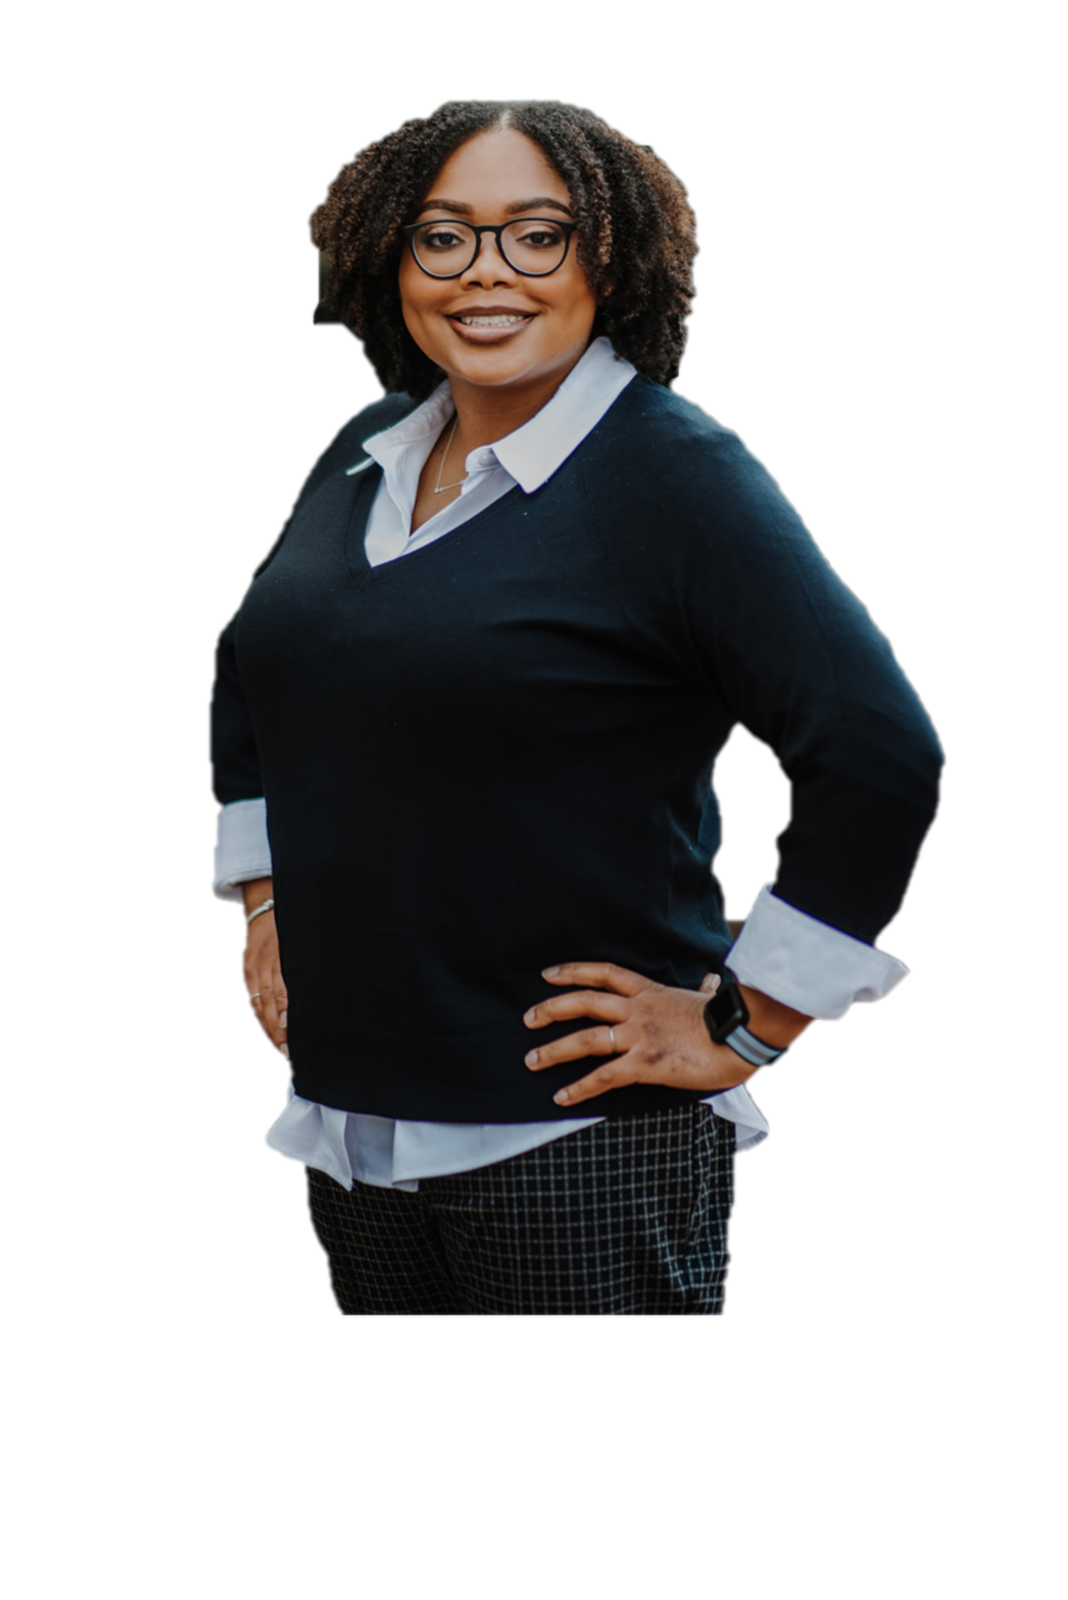
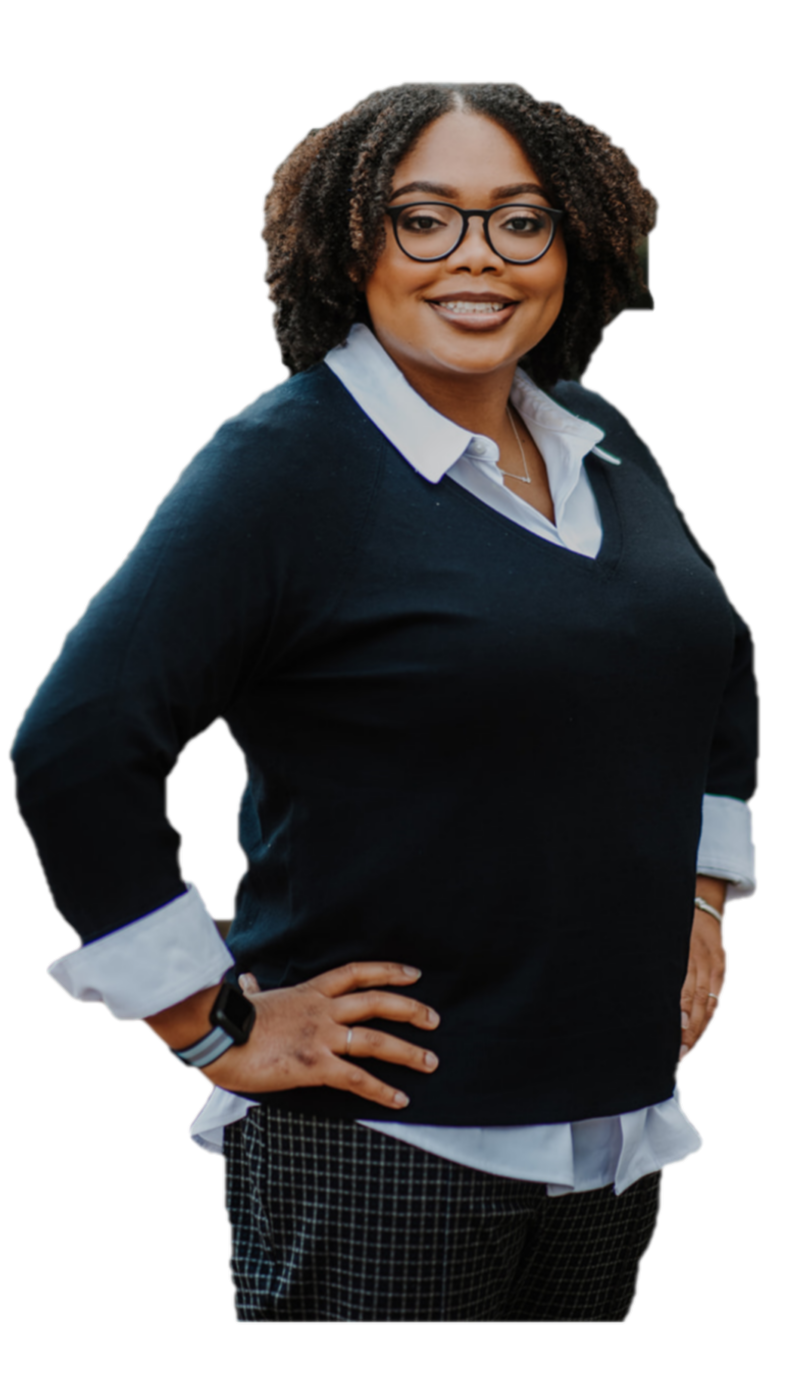
flip pic and worked on zoomed out view

diff --git a/src/components/about/about.scss b/src/components/about/about.scss
@@ -1,4 +1,4 @@
-// .imgContainer, .imgContainer * {
+// .row, .row * {
 //     border: 2px dotted red;
 // }
 
@@ -18,25 +18,19 @@ body {
 }
 
 .fa-copy {
-    top: 125px
+    top: 150px
 }
 
 .fa-mobile-screen-button {
-    top: 200px
+    top: 250px
 }
 
 .about {
     padding: 50px;
     position: relative;
-    height: 650px;
     justify-content: space-between;
     border-radius: 8px;
-    // width: 1200px;
     margin: 0   auto;
-    // background-image: url(./images/backgroundimagework.png);
-    // background-attachment: fixed;
-    // background-repeat: no-repeat;
-    // background-size: cover;
 }
 
 .about h1 {
@@ -50,14 +44,10 @@ body {
 }
 
 .row {
-    position: absolute;
-    bottom: 0;
-    left: 0;
-    // height: 530px;
-    width: 100%;
+    width: 90%;
     display: flex;
-    justify-content: center;
-
+    justify-content: space-around;
+    margin: 10px auto;
 }
 
 .row h1 {
@@ -66,46 +56,38 @@ body {
 
 .imgContainer {
     width: 600px;
-    // height: 530px;
     position: relative;
-    // position: absolute;
-    // bottom: 0;
-    // left: 0;
+    height: 700px;
 }
 
 .imgContainer h1 {
     position: absolute;
-    left: 0;
-    top: 0
+    right: 10px;
+    top: 0;
 }
 
 .paragraph {
-    position: relative;
-    height: 300px;
-    margin: 50px;
     border: 2px solid black;
     border-radius: 8px;
     padding: 10px 35px 35px 35px;
     border-radius: 0 25%;
-    width: 40%;
     color: white;
     background: linear-gradient(172deg, gray 80%, black 80%, black 81%, teal 85%, teal 86%, black 86%, black 90%, gray 90%);
-    font-size: 1.1rem;
-    bottom: 50px;
+    font-size: 1.65rem;
     box-shadow: 5px 5px 20px black;
+    margin: 5%;
+    padding: 1% 2%;
+    width: 1000px;
 }
+
 .paragraph h2 {
     text-align: center;
     font-style: italic;
 }
 
-.about p b {
-    color: black;
-    font-size: larger;
-}
-
 .me {
-    height: 700px;
+    // height: 700px;
+    height: 750px;
     position: fixed;
     z-index: 1;
 }
@@ -114,8 +96,7 @@ body {
     position: absolute;
     bottom: 25px;
     height: 50px;
-    left: 170px;
-    width: 400px;
+    width: 550px;
     background-color: black;
     z-index: 0;
     margin: 0 auto;
@@ -127,9 +108,9 @@ body {
 .bottomDiv {
     position: absolute;
     bottom: 0;
-    left: 170px;
+    // left: 10px;
     height: 50px;
-    width: 400px;
+    width: 550px;
     margin: 0 auto;
     border-radius: 0 0 50% 50%;
     border: 2px solid red;
@@ -140,11 +121,11 @@ body {
 
 .extend {
     background: slategray;
-    height: 50px;
+    height: 800px;
     position: absolute;
     z-index: 1;
     width: 100%;
-    bottom: -10px;
+    bottom: -750px;
 }
 
 

diff --git a/src/components/about/About.jsx b/src/components/about/About.jsx
@@ -5,18 +5,18 @@ import { useEffect } from 'react';
 export default function About() {
 
   useEffect(() => {
+    window.scrollTo(0,0);
     let pic = document.querySelector('.me');
     let hole = document.querySelector('.bottomDiv');
-    let about = document.getElementById('about');
-    let x = hole.getBoundingClientRect().x-25 + 'px';
-    let y = hole.getBoundingClientRect().y-550 + 'px';
+    let x = hole.getBoundingClientRect().x+40 + 'px';
+    let y = hole.getBoundingClientRect().y-700 + 'px';
     pic.style.left = x;
     pic.style.top = y;
-
+    
     window.addEventListener('resize', () => {
       window.scrollTo(0,0);
-      let x = hole.getBoundingClientRect().x + 'px';
-      let y = hole.getBoundingClientRect().y + 'px';
+      let x = hole.getBoundingClientRect().x+40 + 'px';
+      let y = hole.getBoundingClientRect().y-700 + 'px';
       pic.style.left = x;
       pic.style.top = -y;
     });
@@ -32,7 +32,6 @@ export default function About() {
 
       <div className="row">
         <div className="imgContainer">
-          <h1>Ryanne Bennett</h1>
           <img className="me" src={me} alt="" />
           <div className="topDiv"></div>
           <div className="bottomDiv"></div>
@@ -40,15 +39,13 @@ export default function About() {
         </div>
 
         <div className="paragraph">
-          <h2>About Me</h2>
-          <br />
+          <h2>Ryanne Bennett</h2>
           <p>
             From the world of News Broadcasting production
             where I developed my passion for learning new technology,
             because of the fast pace environment and robotic technology
             slowly taking over live broadcasts.  Whether it’s robotic cameras or web development I’m always up for the challenge to be creative and learn a new skill.
           </p>
-          <br />
           <p>
             Coding has been a huge part of my day to day for years now,
             and I have always wondered what more I can do with it.

diff --git a/src/components/work/work.scss b/src/components/work/work.scss
@@ -1,6 +1,6 @@
-* {
+// * {
     // border: 2px dotted red;
-}
+// }
 
 
 *::-webkit-scrollbar {
@@ -8,7 +8,6 @@
 }
 
 .work {
-    // height: 2000px;
     position: relative;
     z-index: 1;
     background: orange;
@@ -16,7 +15,7 @@
 
 .work .header {
     position: relative;
-    height: 645px;
+    height: 1200px;
     background-image: url(images/Cover-Image2.jpg);
     background-attachment: fixed;
     background-repeat: no-repeat;
@@ -25,21 +24,30 @@
 }
 
 .topBanner {
-    height: 400px;
+    height: 750px;
     width: 100%;
     transform: skew(0deg, 5deg);
     position: relative;
-    bottom: 150px;
+    bottom: 350px;
     border-bottom: 100px solid #1a1919;
     background: slategray;
 }
 
+.work .header h1 {
+    font-size: 5rem;
+    text-align: center;
+    color: white;
+    transform: skew(0deg, 5deg);
+    position: relative;
+    bottom: 325px;
+}
+
 .bottomBanner {
-    height: 300px;
+    height: 800px;
     width: 100%;
     border-top: 4px solid black;
     position: absolute;
-    bottom: -150px;
+    bottom: -350px;
     transform: skew(0deg, 5deg);
     background: orange;
 }
@@ -88,11 +96,5 @@
     height: 35vh;
 }
 
-.work .header h1 {
-    font-size: 5rem;
-    text-align: center;
-    color: white;
-    transform: skew(0deg, 5deg);
-    position: relative;
-    bottom: 120px;
-}
+
+

diff --git a/src/components/contact/contact.scss b/src/components/contact/contact.scss
@@ -11,7 +11,7 @@ i {
 }
 
 .contact .header {
-    height: 645px;
+    height: 1200px;
     overflow: hidden;
     position: relative;
     background-size: cover;
@@ -20,31 +20,33 @@ i {
     background-image: url(./images/backgroundimagework.png);
 }
 
+
+
+.contactTop {
+    height: 750px;
+    width: 100%;
+    transform: skew(0deg, 5deg);
+    position: relative;
+    bottom: 350px;
+    border-bottom: 100px solid #1a1919;
+    background: orange;
+}
+
 .contact .header h1 {
     font-size: 5rem;
     text-align: center;
     color: white;
     transform: skew(0deg, 5deg);
     position: relative;
-    bottom: 150px;
-}
-
-.contactTop {
-    height: 400px;
-    width: 100%;
-    transform: skew(0deg, 5deg);
-    position: relative;
-    bottom: 200px;
-    border-bottom: 100px solid #1a1919;
-    background: orange;
+    bottom: 350px;
 }
 
 .contactBottom {
-    height: 300px;
+    height: 800px;
     width: 100%;
-    border-top: 2px solid black;
+    border-top: 4px solid black;
     position: absolute;
-    top: 490px;
+    bottom: -350px;
     transform: skew(0deg, 5deg);
     background: #575757;
 }

diff --git a/public/index.html b/public/index.html
@@ -8,13 +8,6 @@
     <meta name="description" content="Web site created using create-react-app" />
     <link href="https://fonts.googleapis.com/css2?family=Roboto+Mono:ital,wght@0,200;1,200&family=Roboto:ital,wght@0,300;1,100&display=swap" rel="stylesheet">
     <title>React Portfolio Website</title>
-    <style>
-      *{
-        font-family: 'Roboto', sans-serif;
-        margin: 0;
-        overflow-x: hidden;
-      }
-    </style>
   </head>
   <body>
     <noscript>You need to enable JavaScript to run this app.</noscript>
